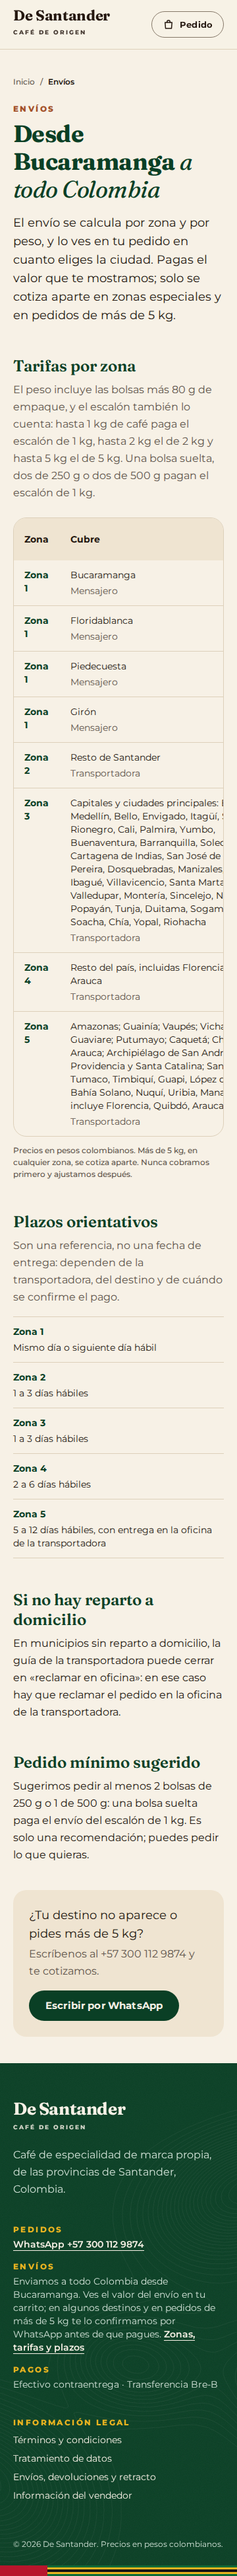
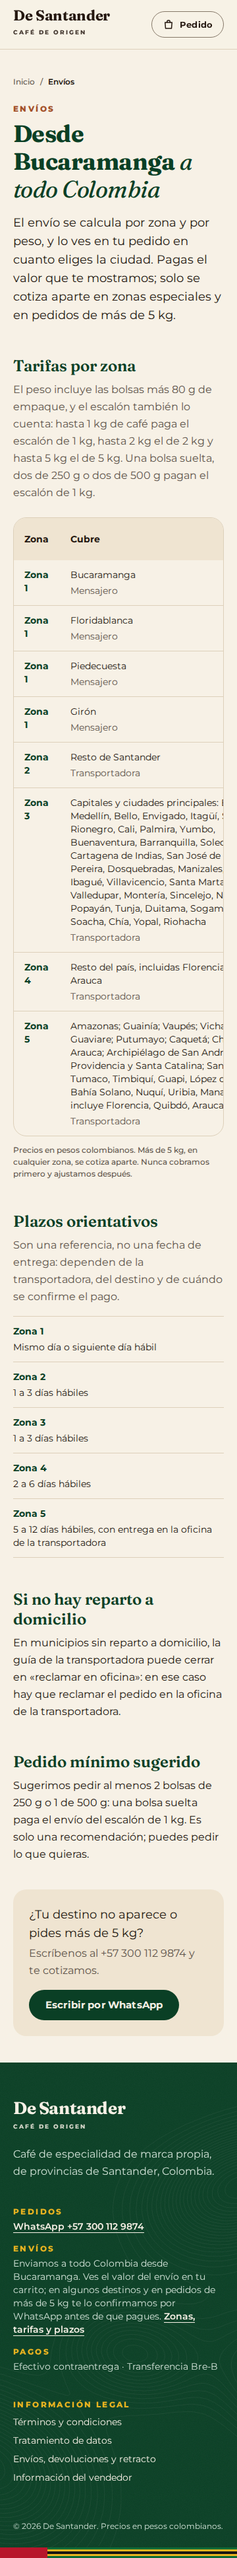
feat(inicio): textos genéricos, historia y confirmación revisados por legal; botón «Enviar por WhatsApp»; tabla de envíos enfocable (QA-001)

Changed region(s): [[0.0, 0.0312, 1.0, 0.9688], [0.0917, 0.375, 0.2139, 0.4062]]

diff --git a/src/ui/componentes/layout/secciones-inicio.tsx b/src/ui/componentes/layout/secciones-inicio.tsx
@@ -1,6 +1,5 @@
 import type { ContenidoHistoria, ContenidoInicio } from "@/application/puertos";
 import type { VistaCatalogo } from "@/application/casos-uso/obtener-catalogo";
-import { etiquetaCafes } from "@/domain/catalogo/filtros";
 import { BotonEnlace } from "../marca/boton";
 import { Antetitulo, BarraAcento } from "../marca/etiquetas";
 import { Foto, Franja, Hoja, Textura } from "../marca/superficies";
@@ -22,11 +21,10 @@ export function Titular({ nivel: Nivel = "h2", antes, remate, className }: { niv
 
 export function Portada({ catalogo, contenido }: { catalogo: VistaCatalogo; contenido: ContenidoInicio | null }) {
   const n = catalogo.cafes.length;
-  const k = catalogo.provinciasActivas.length;
   const bajada =
     contenido?.bajada ??
     (n > 0
-      ? `${etiquetaCafes(n)} de especialidad de ${k === 1 ? "una provincia" : `${k} provincias`} de Santander, de marca propia. Elige por provincia y pide por WhatsApp.`
+      ? "Café de especialidad de marca propia, de provincias de Santander. Elige tu provincia y pide por WhatsApp."
       : "Estamos preparando la próxima cosecha. Escríbenos por WhatsApp y te avisamos cuando haya café.");
 
   return (
@@ -63,7 +61,7 @@ const textoPasos = (catalogo: VistaCatalogo, contenido: ContenidoInicio | null) 
   const pagosTexto = pagos.length > 1 ? `${pagos.slice(0, -1).join(", ")} y ${pagos[pagos.length - 1]}` : pagos[0];
   return [
     { titulo: "Elige tus cafés", texto: `Cada café viene en bolsa de ${lista}, en grano entero o molido. El precio de cada bolsa está en su tarjeta y en su ficha.` },
-    { titulo: "Envía el pedido por WhatsApp", texto: "Completas tus datos de envío y se abre WhatsApp con tu pedido ya escrito. El pedido se hace cuando lo envías." },
+    { titulo: "Envía el pedido por WhatsApp", texto: "Completas tus datos de envío y se abre WhatsApp con tu pedido ya escrito. Con ese mensaje nos pides el pedido." },
     { titulo: "Confirmamos envío y pago", texto: `Despachamos desde ${tienda.ciudadDespacho} a todo Colombia. Ves el envío en tu carrito; si hay que cotizarlo, te lo confirmamos antes de que pagues. Pagas con ${pagosTexto}.` },
   ];
 };
@@ -100,8 +98,8 @@ export function ComoPedir({ catalogo, contenido }: { catalogo: VistaCatalogo; co
 // Solo afirmaciones confirmadas por la marca (PRODUCT.md, «Brand Commitments»).
 const HISTORIA_RESPALDO = {
   parrafos: [
-    "De Santander es una marca propia de café de especialidad. Trabajamos con fincas de familias productoras santandereanas con tradición cafetera.",
-    "Te contamos de dónde viene cada taza: provincia, municipio, altitud, variedad y proceso.",
+    "De Santander es una marca propia de café de especialidad. Compramos a fincas de familias santandereanas con tradición cafetera, lo tostamos por lotes y lo enviamos a todo Colombia.",
+    "En cada café verás la provincia, el municipio, la altitud, la variedad y el proceso.",
   ],
   proceso: [
     { titulo: "Cosecha", texto: "Recolección manual en el punto de maduración." },

diff --git a/e2e/envios.spec.ts b/e2e/envios.spec.ts
@@ -52,8 +52,8 @@ async function completarYFinalizar(page: Page) {
   await page.getByRole("checkbox", { name: /Autorizo el tratamiento/ }).check();
   await page.getByRole("checkbox", { name: /Acepto los términos/ }).check();
   await page.getByRole("button", { name: "Finalizar compra" }).click();
-  await expect(page.getByRole("heading", { name: "Tu pedido está listo en WhatsApp" })).toBeVisible();
-  const href = (await page.getByRole("link", { name: /Abrir WhatsApp/ }).getAttribute("href")) ?? "";
+  await expect(page.getByRole("heading", { name: "Tu pedido está listo para enviar por WhatsApp" })).toBeVisible();
+  const href = (await page.getByRole("link", { name: /Enviar por WhatsApp/ }).getAttribute("href")) ?? "";
   expect(href.startsWith("https://wa.me/573001129874?text=")).toBe(true);
   const texto = decodeURIComponent(href.split("?text=")[1]);
   expect(texto.length).toBeLessThan(2000);
@@ -157,8 +157,8 @@ test.describe("envío por zonas: por cotizar", () => {
     await page.getByRole("checkbox", { name: /Acepto los términos/ }).check();
     await page.getByRole("button", { name: "Finalizar compra" }).click();
     await expect(page.getByTestId("texto-confirmacion")).toContainText("Tu pedido queda en firme cuando aceptas ese valor.");
-    await expect(page.getByTestId("texto-confirmacion")).not.toContainText("el pedido se hace cuando lo envías");
-    const href = (await page.getByRole("link", { name: /Abrir WhatsApp/ }).getAttribute("href")) ?? "";
+    await expect(page.getByTestId("texto-confirmacion")).toContainText("Tu pedido queda en firme");
+    const href = (await page.getByRole("link", { name: /Enviar por WhatsApp/ }).getAttribute("href")) ?? "";
     const texto = decodeURIComponent(href.split("?text=")[1]);
     expect(texto.length).toBeLessThan(2000);
     expect(texto).toContain("Envío: POR COTIZAR (zona especial)");
@@ -193,7 +193,8 @@ test.describe("envío por zonas: por cotizar", () => {
     await page.getByRole("checkbox", { name: /Autorizo el tratamiento/ }).check();
     await page.getByRole("checkbox", { name: /Acepto los términos/ }).check();
     await page.getByRole("button", { name: "Finalizar compra" }).click();
-    await expect(page.getByTestId("texto-confirmacion")).toContainText("el pedido se hace cuando lo envías");
+    await expect(page.getByTestId("texto-confirmacion")).toContainText("Después te respondemos para confirmarlo");
+    await expect(page.getByTestId("texto-confirmacion")).not.toContainText("Tu pedido queda en firme");
     await expect(page.getByTestId("texto-confirmacion")).not.toContainText("queda en firme");
   });
 });

diff --git a/src/ui/componentes/checkout/flujo-pedido.tsx b/src/ui/componentes/checkout/flujo-pedido.tsx
@@ -276,20 +276,20 @@ function Contenido() {
 
       {paso === "confirmacion" && resultado && (
         <section aria-labelledby="t-confirmacion" className="max-w-2xl">
-          <h1 id="t-confirmacion" ref={titulo} tabIndex={-1} className="h2 text-ink-title scroll-mt-24 outline-none">Tu pedido está listo en WhatsApp</h1>
+          <h1 id="t-confirmacion" ref={titulo} tabIndex={-1} className="h2 text-ink-title scroll-mt-24 outline-none">Tu pedido está listo para enviar por WhatsApp</h1>
           {resultado.envio.tipo === "por_cotizar" ? (
             <p className="body mt-3" data-testid="texto-confirmacion">
-              Pulsa el botón y envía el mensaje desde WhatsApp. Con este mensaje nos pides el pedido. Te respondemos con el valor del envío y el total. Tu pedido queda en firme cuando aceptas ese valor.
+              Pulsa «Enviar por WhatsApp» y manda el mensaje. Con este mensaje nos pides el pedido. Te respondemos con el valor del envío y el total. Tu pedido queda en firme cuando aceptas ese valor.
             </p>
           ) : (
             <p className="body mt-3" data-testid="texto-confirmacion">
-              Pulsa el botón y envía el mensaje desde WhatsApp para hacer el pedido: <strong>el pedido se hace cuando lo envías</strong>. Te respondemos para confirmar el envío y la forma de pagar.
+              Pulsa «Enviar por WhatsApp» y manda el mensaje. Con él nos pides el pedido. Después te respondemos para confirmarlo y acordar el pago.
             </p>
           )}
           {resultado.indicacionesResumidas && <p className="caption mt-2 text-ink-muted">Acortamos tus indicaciones para que el mensaje quepa; las puedes ampliar por el chat.</p>}
           <div className="mt-6 flex flex-wrap gap-3">
             <BotonEnlace href={resultado.enlace} tamano="lg" target="_blank" rel="noopener noreferrer">
-              <IconoWhatsapp className="ds-btn__icon" /> Abrir WhatsApp
+              <IconoWhatsapp className="ds-btn__icon" /> Enviar por WhatsApp
             </BotonEnlace>
             <Boton variante="secundario" tamano="lg" onClick={copiar}>
               <IconoCopiar className="ds-btn__icon" /> Copiar mensaje

diff --git a/src/app/envios/page.tsx b/src/app/envios/page.tsx
@@ -58,7 +58,7 @@ export default async function PaginaEnvios() {
         <p className="body mt-2 max-w-2xl text-ink-muted">
           El peso incluye las bolsas más {EMPAQUE_G} g de empaque, y el escalón también lo cuenta: hasta 1 kg de café paga el escalón de 1 kg, hasta 2 kg el de 2 kg y hasta 5 kg el de 5 kg. Una bolsa suelta, dos de 250 g o dos de 500 g pagan el escalón de 1 kg.
         </p>
-        <div className="mt-6 overflow-x-auto rounded-lg border border-line">
+        <div className="mt-6 overflow-x-auto rounded-lg border border-line" role="region" aria-label="Tarifas de envío" tabIndex={0}>
           <table className="w-full min-w-[44rem] border-collapse text-left text-sm" data-testid="tabla-envios">
             <caption className="sr-only">Tarifas de envío en pesos colombianos por zona y escalón de peso</caption>
             <thead className="bg-surface-sunken">

diff --git a/e2e/pedido.spec.ts b/e2e/pedido.spec.ts
@@ -64,8 +64,8 @@ test.describe("pedido", () => {
     await page.getByRole("button", { name: "Finalizar compra" }).click();
 
     // 4. Confirmación
-    await expect(page.getByRole("heading", { name: "Tu pedido está listo en WhatsApp" })).toBeVisible();
-    const enlace = page.getByRole("link", { name: /Abrir WhatsApp/ });
+    await expect(page.getByRole("heading", { name: "Tu pedido está listo para enviar por WhatsApp" })).toBeVisible();
+    const enlace = page.getByRole("link", { name: /Enviar por WhatsApp/ });
     const href = (await enlace.getAttribute("href")) ?? "";
     expect(href.startsWith("https://wa.me/573001129874?text=")).toBe(true);
     const texto = decodeURIComponent(href.split("?text=")[1]);

diff --git a/src/ui/componentes/layout/pie.tsx b/src/ui/componentes/layout/pie.tsx
@@ -20,7 +20,7 @@ export function Pie({ tienda, anio }: { tienda: ConfigTienda; anio: number }) {
         <div className="mx-auto grid max-w-6xl gap-10 px-5 py-14 md:grid-cols-[1.2fr_1fr_1fr] md:px-8">
           <div>
             <Marca pie />
-            <p className="body mt-4 max-w-xs text-ink-muted">Café de especialidad de marca propia, de las provincias de Santander, Colombia.</p>
+            <p className="body mt-4 max-w-xs text-ink-muted">Café de especialidad de marca propia, de provincias de Santander, Colombia.</p>
           </div>
 
           <dl className="space-y-4 text-sm">

diff --git a/docs/legal/revisiones/2026-11-05-textos-inicio-confirmacion.md b/docs/legal/revisiones/2026-11-05-textos-inicio-confirmacion.md
@@ -1,0 +1,83 @@
+# Revisión LEG-013 a LEG-020 — Textos de inicio, Historia y confirmación (2026-11-05)
+
+> BORRADOR — Pendiente de revisión y aprobación por el abogado responsable. Versión 0.1 — 2026-11-05.
+
+Anexo a `2026-11-05-envios.md` (LEG-001 a LEG-012). Alcance: siete textos propuestos (T1 a T7) para inicio, Historia, pantalla de confirmación y botón. Fuentes de respaldo: `PRODUCT.md` (Product Purpose, Brand Commitments, Evidence on Hand y Decisiones), `docs/legal/envios-devoluciones-retracto.md` (sección D), `microcopy-legal.md` 1.2 y LEG-001 puntos 3, 4, 5 y 8.
+
+Normas usadas: Ley 1480 de 2011, art. 23 (información veraz y suficiente), arts. 29 a 33 (publicidad engañosa; VERIFICAR numeración exacta del art. 29) y art. 50 (comercio electrónico; modificado por la Ley 2439 de 2024); Ley 527 de 1999, art. 14 (oferta y aceptación por mensaje de datos); Código de Comercio, arts. 845 y 864 (oferta y perfeccionamiento; VERIFICAR). No se verificaron en fuente oficial en esta sesión.
+
+## Dictamen por texto
+
+| Texto | Resultado |
+|---|---|
+| T1 bajada de inicio | Aprobado con cambio |
+| T2 Historia, párrafo 1 | Aprobado con cambio (la frase «lo llevamos de la finca a tu casa» se rechaza) |
+| T3 Historia, párrafo 2 | Aprobado (condicionado a que los datos existan) |
+| T4 título de confirmación | Aprobado |
+| T5 confirmación con tarifa | Aprobado con cambio |
+| T6 confirmación por cotizar | Aprobado con cambio |
+| T7 botón | Aprobado |
+
+## Hallazgos
+
+| # | Severidad | Ubicación | Texto o práctica | Riesgo y norma | Corrección propuesta |
+|---|---|---|---|---|---|
+| LEG-013 | Media (decisión del cliente) | T1 y T2; ya publicado en `layout.tsx` (metadatos), `pie.tsx`, `secciones-inicio.tsx` (líneas 29, 37 y 103) | «café de especialidad» | El propio `PRODUCT.md` define especialidad como puntaje SCA de 80 o más, y decide no mostrar puntajes porque ninguno está verificado. Hoy el sitio no puede demostrar la calificación que afirma. Arts. 23 y 29 a 33 (afirmación no demostrable). El descriptor en uso en `PRODUCT.md` es «Café de origen». | Usar «café de origen» o «café santandereano de origen» mientras no haya, para cada café, puntaje SCA ≥ 80 verificado con fuente y fecha. Alternativa: que la marca entregue una prueba documentada de que cada lote cumple el estándar; entonces se conserva «especialidad». No usar «Café de Santander» (denominación de origen). |
+| LEG-014 | Baja | T1 | «de las provincias de Santander» | Con el artículo definido suena a que hay cafés de todas las provincias. Hoy hay cinco cafés y no cubren las siete. Art. 23. | «de provincias de Santander» o, mejor, sin mención de cantidad. |
+| LEG-015 | Alta (no publicar) | T2 | «lo llevamos de la finca a tu casa» | No es demostrable con lo confirmado por la marca. (1) El café no viaja de la finca a la casa: se compra, se tuesta y se despacha desde Bucaramanga. (2) «Lo llevamos» atribuye a la tienda un transporte que hace una transportadora o un agregador. (3) «A tu casa» no siempre es cierto: hay «reclamar en oficina» y envío por cotizar. (4) Insinúa venta directa sin intermediarios. Arts. 23 y 30 (información veraz; publicidad engañosa). | Sustituir por lo que sí consta: tostado por lotes y despacho desde Bucaramanga (`PRODUCT.md`, Operating Context). Ver texto final de T2. |
+| LEG-016 | Informativa | T2 | «Compramos a fincas» y «lo tostamos por lotes» | Cubiertos: Product Purpose («compra lotes a fincas de familias productoras santandereanas, los tuesta y los vende con su nombre») y Brand Commitments («tueste por lotes según el perfil de cada café»; «fincas de familias productoras santandereanas con tradición cafetera»). Diferencia de matiz: la lista de compromisos dice «trabaja con», y es el Product Purpose el que dice «compra». Falta el objeto de «compramos» y el antecedente de «lo». | Redacción con objeto explícito (texto final de T2). Pedir al cliente que confirme que el tueste lo hace la marca y no un tercero, porque «tostamos» lo afirma. |
+| LEG-017 | Baja | T3 | «En cada café verás la provincia, el municipio, la altitud, la variedad y el proceso» | Es una promesa de contenido: es verdadera solo si los cinco cafés tienen los cinco campos. `PRODUCT.md` dice que estos datos no se han verificado uno por uno y que hay dudas sobre el proceso («Lavado tradicional/controlado/premium/especial»). Una altitud sin soporte del productor es afirmación no demostrable. | Aprobado. Condición: que no se publique un café con un campo vacío y que el cliente obtenga el soporte del productor de altitud, variedad y proceso (TODO(dato) en `PENDIENTES.md`). |
+| LEG-018 | Media | T5 | «el pedido se hace cuando lo envías» + «Después te respondemos para confirmar el envío y la forma de pago» | Incoherente en dos frentes. (a) Con los términos en borrador (sección D del documento de envíos: el contrato se perfecciona cuando el cliente acepta por WhatsApp el total que confirmamos). (b) Con T6, que dice «queda en firme cuando aceptas». Si el pedido «se hace» al enviar, el contrato nace ahí (Ley 527 art. 14; C. Co. arts. 845 y 864) y lo que sigue sería ejecución, no confirmación; entonces no se podría condicionar el pago ni el envío a una respuesta posterior. Art. 50. | Aplicar el mismo momento de formación en ambos casos (decisión 1). Texto final de T5 abajo. |
+| LEG-019 | Baja | T6 | Apertura «Pulsa «Enviar por WhatsApp». Con este mensaje nos pides el pedido…» | Correcto en fondo. Falta decir que hay que enviar el mensaje dentro de WhatsApp: el botón abre la aplicación, no envía nada. Art. 23. Además, «queda en firme cuando aceptas ese valor» solo cumple el art. 50 si el cliente puede desistir sin costo (LEG-001 punto 8). | Agregar «y manda el mensaje». Frase opcional final, sujeta a confirmación del cliente: «Si no lo aceptas, no pagas nada.» |
+| LEG-020 | Informativa | T4 y T7; `flujo-pedido.tsx` (líneas ~286 y ~292), `PRODUCT.md` («Finalizar compra por WhatsApp») | «Abrir WhatsApp» → «Enviar por WhatsApp» | T4 y T7 son exactos: no dicen que el pedido está confirmado ni que se compró. «Enviar por WhatsApp» puede leerse como que la página envía el mensaje, pero T5 y T6 lo corrigen con «y manda el mensaje». | Conservar. Actualizar pruebas e2e que busquen «Abrir WhatsApp», el nombre accesible del botón y la expresión «Finalizar compra por WhatsApp» de `PRODUCT.md`. |
+
+## Decisiones que requiere el cliente
+
+1. **Momento de formación del contrato.** (a) El contrato nace cuando el cliente envía el mensaje (como dice hoy `PRODUCT.md`). Exige cambiar los términos en borrador, mostrar antes el plazo de entrega y la disponibilidad (LEG-001 punto 4) y no condicionar nada a una respuesta posterior; no sirve para «por cotizar». (b) El mensaje es la solicitud y el contrato se perfecciona cuando se confirma y el cliente acepta el total (coherente con los términos y con T6). **Se recomienda (b)** para los dos casos, por stock, pago y envío por cotizar. Los textos finales siguen (b).
+2. **«Especialidad» o «origen»** (LEG-013). Se recomienda «origen» hasta tener puntajes verificados o prueba documental.
+3. **Frase «Si no lo aceptas, no pagas nada»** (LEG-019): la marca debe confirmar que cumple esa promesa.
+
+## Datos faltantes
+
+- Soporte del productor para altitud, variedad y proceso de los cinco cafés.
+- Confirmación de que la marca tuesta directamente (si lo hace un tercero, «tostamos» debe ajustarse).
+- Siguen abiertos de LEG-001: IVA (bloqueante para el lanzamiento), plazo de entrega y canal de PQR con radicado.
+
+## Entrega para desarrollador-fullstack
+
+1. T1 en `secciones-inicio.tsx` (bajada genérica) y en `pie.tsx`: texto final de T1. Si el cliente aprueba «origen», cambiar también `layout.tsx` (metadatos), el antetítulo de `secciones-inicio.tsx` («Café de especialidad · Santander») y la línea 29 (variante con conteo).
+2. Historia: T2 y T3 con el texto final de abajo (la línea 103 de `secciones-inicio.tsx` ya usa la frase confirmada «Trabajamos con fincas…»; mantenerla o reemplazarla por T2, no duplicar).
+3. Pantalla de confirmación (`flujo-pedido.tsx`): T4, T5 y T6 según el caso; T7 en el botón.
+4. Actualizar pruebas e2e y `PRODUCT.md` según LEG-020 y LEG-018 (lo edita quien tenga autorización).
+
+## Puntos para que QA verifique
+
+- Ningún texto del sitio contiene «de la finca a tu casa», «gourmet» ni «premium».
+- Con tarifa y con «por cotizar» aparece el texto de confirmación que corresponde, exacto.
+- El botón dice «Enviar por WhatsApp» y no existe «Abrir WhatsApp» en pruebas ni en etiquetas ARIA.
+- Ningún café publicado tiene vacíos la altitud, la variedad o el proceso (T3).
+
+## Normas marcadas VERIFICAR
+
+Ley 1480, numeración exacta del art. 29 y literales del art. 50; Ley 527, art. 14; Código de Comercio, arts. 845 y 864.
+
+## Textos finales recomendados
+
+**T1.** Café santandereano de origen, de marca propia. Elige tu provincia y pide por WhatsApp.
+(Si el cliente documenta la calidad de especialidad: «Café de especialidad de marca propia, de provincias de Santander. Elige tu provincia y pide por WhatsApp.»)
+
+**T2.** De Santander es una marca propia de café de origen. Compramos el café a fincas de familias santandereanas con tradición cafetera, lo tostamos por lotes según el perfil de cada café y lo despachamos desde Bucaramanga a todo Colombia.
+
+**T3.** En cada café verás la provincia, el municipio, la altitud, la variedad y el proceso. (Sin cambio; ver condición en LEG-017.)
+
+**T4.** Tu pedido está listo para enviar por WhatsApp (sin cambio).
+
+**T5 (con tarifa).** Pulsa «Enviar por WhatsApp» y manda el mensaje. Con él nos pides el pedido. Después te respondemos para confirmarlo y acordar el pago.
+
+**T6 (por cotizar).** Pulsa «Enviar por WhatsApp» y manda el mensaje. Con este mensaje nos pides el pedido. Te respondemos con el valor del envío y el total. Tu pedido queda en firme cuando aceptas ese valor. [Opcional, decisión 3: Si no lo aceptas, no pagas nada.]
+
+**T7.** Enviar por WhatsApp (sin cambio).
+
+## Dictamen
+
+**Conforme con observaciones** si se aplican los textos finales. Sin el cambio de LEG-015, la propuesta de T2 sería **No conforme** (frase no demostrable). Siguen vigentes los bloqueos de LEG-001 (IVA) para el lanzamiento.

diff --git a/docs/PENDIENTES.md b/docs/PENDIENTES.md
@@ -50,3 +50,10 @@ Cada ítem marca un `TODO(dato)`: no se muestra en la interfaz hasta que exista 
 - TODO(dato): usuario de Instagram real de la marca (campo en «Ajustes del sitio» de Sanity); mientras no exista no se muestra.
 - TODO(dato): proyecto de Sanity (crearlo con `sanity login` / `sanity init`) y el webhook de despliegue (docs/DEPLOY.md).
 - TODO(dato): fotografías de producto en contexto (yute, madera, piedra). Hasta entonces las tarjetas usan una bolsa ilustrada.
+
+## Textos del inicio y la confirmación (LEG-013 a LEG-020)
+- TODO(dato): decidir si el descriptor «café de especialidad» se mantiene (ningún puntaje SCA está verificado) o pasa a «café de origen». Aparece en `src/app/layout.tsx`, el pie, el inicio y la Historia.
+- TODO(dato): soporte del productor para altitud, variedad y proceso de cada café; el texto «En cada café verás…» solo es cierto si los cinco campos existen.
+- TODO(dato): confirmar que la marca tuesta directamente (el texto dice «lo tostamos por lotes»).
+- TODO(dato): decidir el momento de formación del contrato (al enviar el mensaje, o al aceptar el total). Los textos de confirmación ya siguen la segunda opción; `PRODUCT.md` («el pedido existe cuando el cliente envía el mensaje») aún dice lo contrario.
+- TODO(dato): frase opcional «Si no lo aceptas, no pagas nada» en el caso por cotizar.

diff --git a/docs/legal/CAMBIOS.md b/docs/legal/CAMBIOS.md
@@ -7,3 +7,4 @@ La versión de la política de datos debe coincidir con `config_tienda.politica_
 | 2026-11-05 | `envios-devoluciones-retracto.md` | 0.1 | Borrador, sin aprobar | Primer borrador ajustado al modelo de envío por zonas (`docs/ENVIOS.md`). Incluye el cambio de la Ley 2439 de 2024 (devolución en 15 días, plazo de entrega, radicado de PQR). Alternativas de retracto del café sujetas a decisión del cliente. |
 | 2026-11-05 | `microcopy-legal.md` | 0.1 | Borrador, sin aprobar | Sección de envío: línea de envío, «por cotizar», «Total sin envío», líneas de WhatsApp, nota del pie. |
 | 2026-11-05 | `revisiones/2026-11-05-envios.md` | 0.1 | Revisión LEG-001 | Dictamen: conforme con observaciones (envío); no conforme para lanzamiento por IVA. |
+| 2026-11-05 | `revisiones/2026-11-05-textos-inicio-confirmacion.md` | 0.1 | Revisión LEG-013 a LEG-020 | Textos de inicio, Historia, confirmación y botón. Rechaza «lo llevamos de la finca a tu casa»; observa «especialidad» sin puntajes verificados; unifica el momento de formación del contrato. |
